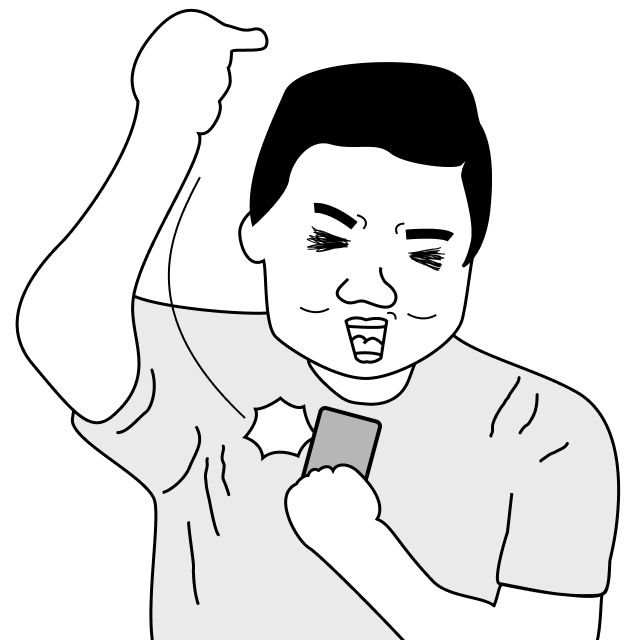
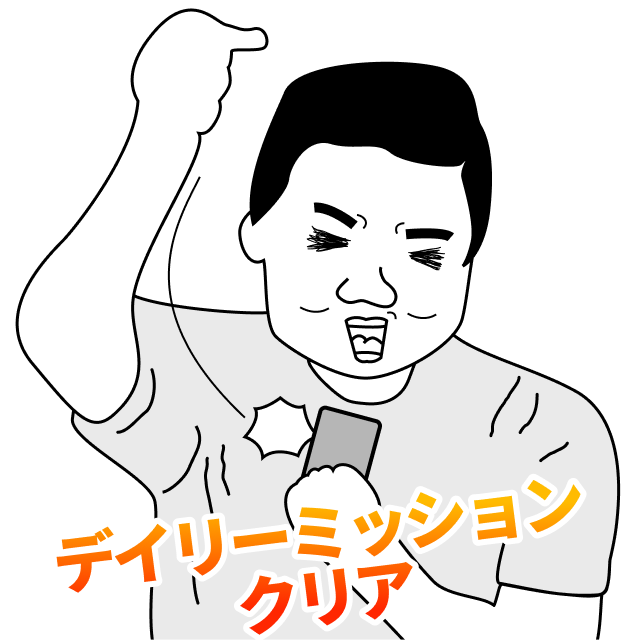
カットインの仮実装。

diff --git a/script.js b/script.js
@@ -403,3 +403,29 @@ function saveOjisanSetting(value) {
 function getOjisanSetting() {
     return localStorage.getItem(OJISAN_KEY) || 'on';
 }
+
+// カットイン演出
+const cutinContainer = document.getElementById('cutin-container');
+const cutinInner = document.getElementById('cutin-inner');
+const cutin1 = document.getElementById('cutin1');
+const cutin2 = document.getElementById('cutin2');
+
+// 1フレーム待ってからスライドイン開始（CSSトランジションを確実に発火させる）
+requestAnimationFrame(() => {
+    requestAnimationFrame(() => {
+        cutinInner.classList.add('centered');
+    });
+});
+
+// cutin1.gif再生後にcutin2.pngへ切り替え、タップを有効化
+setTimeout(() => {
+    cutin1.style.display = 'none';
+    cutin2.style.visibility = 'visible';
+    cutinContainer.style.pointerEvents = 'auto';
+    cutinContainer.style.cursor = 'pointer';
+}, 1200);
+
+// クリックでカットインを非表示
+cutinContainer.addEventListener('click', () => {
+    cutinContainer.style.display = 'none';
+});

diff --git a/css/style.css b/css/style.css
@@ -515,3 +515,42 @@ footer small {
     font-size: 2rem;
     color: #fcd34d;
 }
+
+/* カットインアニメーション */
+#cutin-container {
+    position: fixed;
+    inset: 0;
+    background: rgba(0, 0, 0, 0.3);
+    z-index: 9999;
+    cursor: default;
+    pointer-events: none;
+    display: flex;
+    align-items: center;
+    justify-content: center;
+}
+
+#cutin-inner {
+    width: 100%;
+    position: relative;
+    transform: translateX(100vw);
+    transition: transform 0.2s ease-out;
+}
+
+#cutin-inner.centered {
+    transform: translateX(0);
+}
+
+#cutin-container #cutin1 {
+    position: absolute;
+    top: 0;
+    left: 0;
+    width: 100%;
+    height: auto;
+}
+
+#cutin-container #cutin2 {
+    display: block;
+    width: 100%;
+    height: auto;
+    visibility: hidden;
+}

diff --git a/index.html b/index.html
@@ -735,6 +735,14 @@
         </div>
     </div>
 
+    <!-- カットインアニメーション -->
+    <div id="cutin-container">
+        <div id="cutin-inner">
+            <img id="cutin2" src="images/cutin2.png" alt="">
+            <img id="cutin1" src="images/cutin1.gif" alt="">
+        </div>
+    </div>
+
     <!-- Bootstrap Bundle with Popper -->
     <script src="https://cdn.jsdelivr.net/npm/bootstrap@5.3.0/dist/js/bootstrap.bundle.min.js"></script>
     <!-- アプリスクリプト -->
